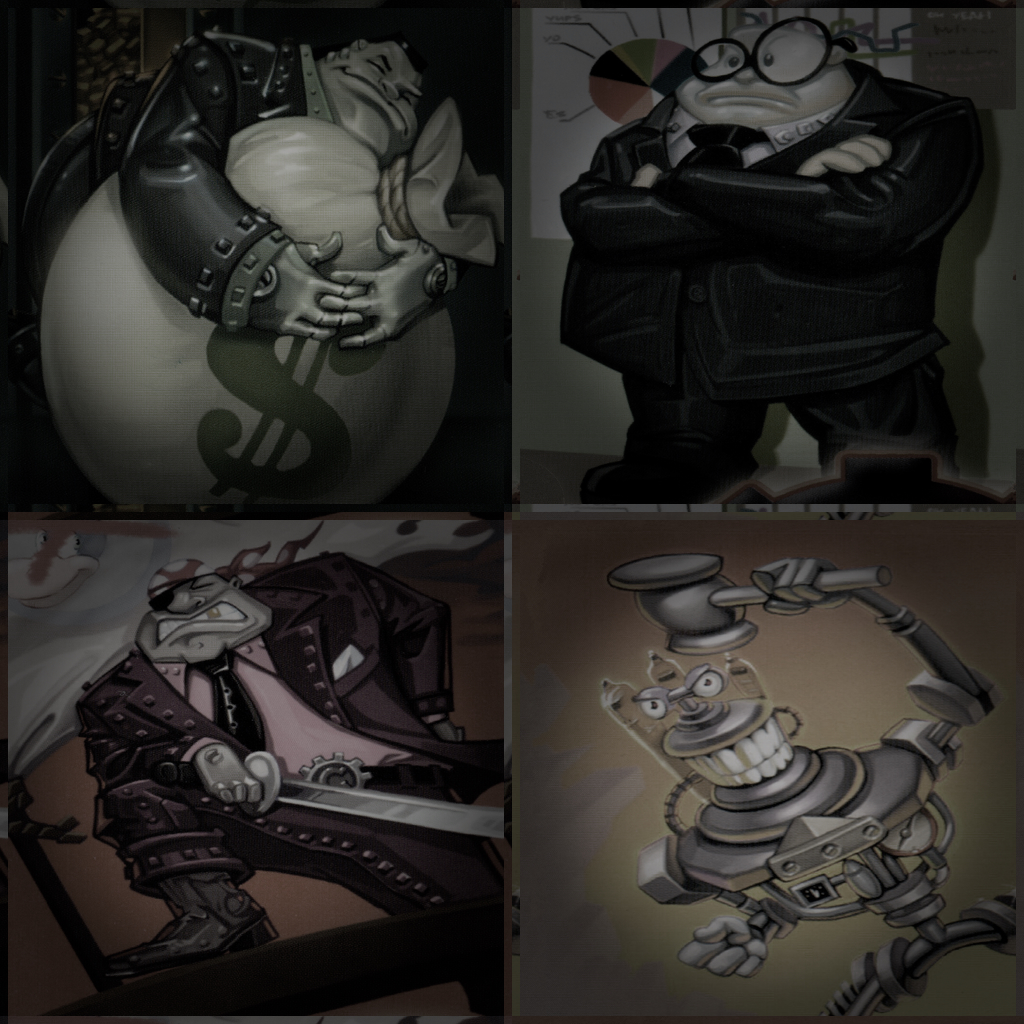
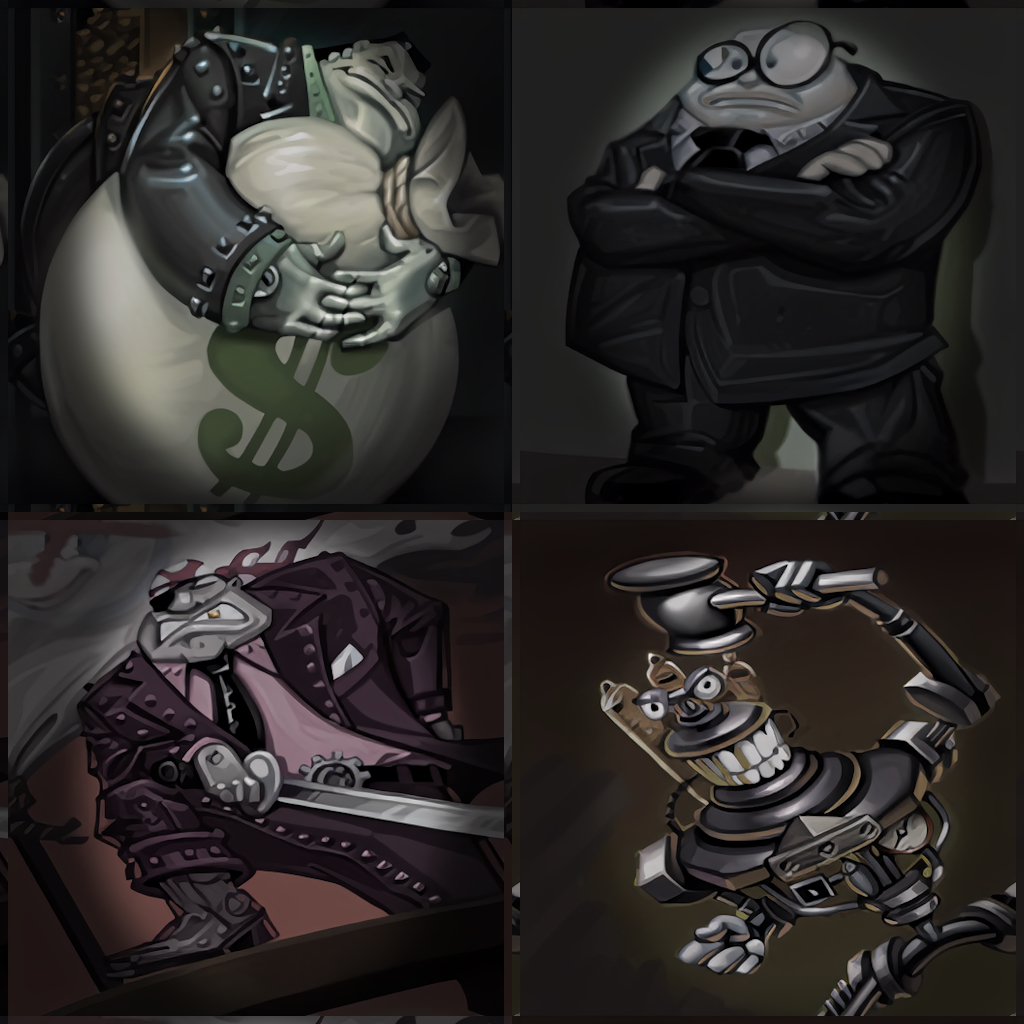
phase_12: Upscaled Cog portraits

diff --git a/README.md b/README.md
@@ -41,7 +41,8 @@ The things changed are:
 * Fixed Lawbot HQ scale not displaying the emblem
 * Update the vanilla battle menu to correctly include the Fires icon
 * Fix a poor quality removal of a small light on the Donald's Dreamland skybox that caused a small seam in the texture
-* Remastered Bossbot HQ/Toon Hall portraits using color corrected and tweaked scans of the original Trading Cards
+* Remastered Toon Hall portraits using color corrected and tweaked scans of the original Trading Cards
+* Upscaled Bossbot HQ portraits
 * Fixes/improvements to a large variety of transparency issues caused by faulty TIF files or poor editing in the original model repository, such as Estates and Catching Game
 * Fixed typo on Popcorn Cart Estate item
 * Fixed grey lines on the Minnie's Melodyland and Toontown Central curb textures, which caused a very noticeable seam
